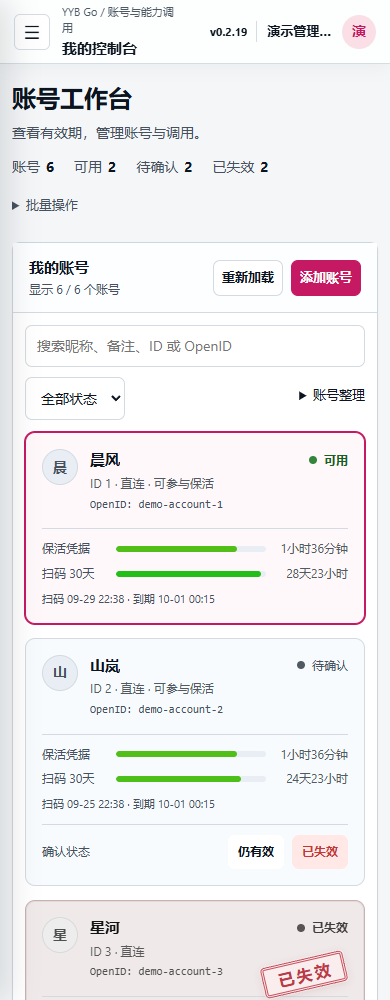
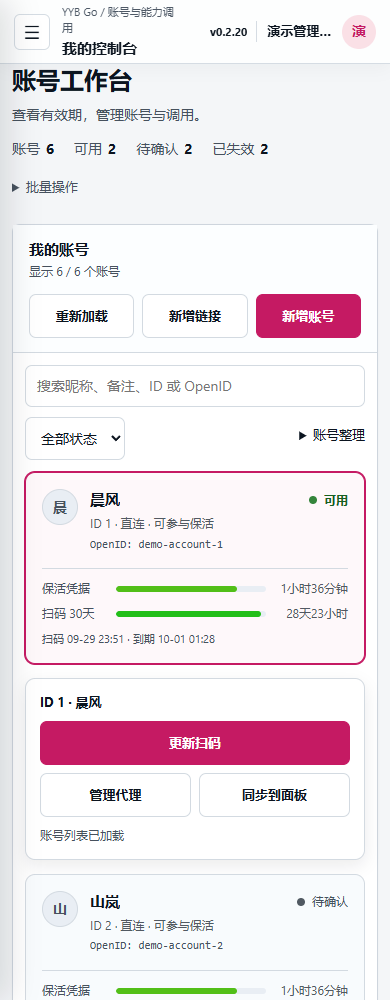
feat(console): add mobile actions below selected account in v0.2.20

diff --git a/resource/templates/index.html b/resource/templates/index.html
@@ -282,6 +282,7 @@
     .account-maintenance .inline-actions { flex-direction:column; }
     .account-filters .input { min-height:40px; }
     #accountWorkspace, #callWorkspace { scroll-margin-top:80px; }
+    .mobile-account-actions { display:none; }
     .sr-only { position:absolute; width:1px; height:1px; overflow:hidden; clip-path:inset(50%); white-space:nowrap; }
 
     .account-band,
@@ -848,8 +849,8 @@
 
     @media (max-width: 760px) {
       .overview { grid-template-columns:1fr; gap:4px; }
-      #accountWorkspace > .section-head { flex-direction:row; align-items:center; }
-      #accountWorkspace > .section-head .panel-actions { width:auto; }
+      #accountWorkspace > .section-head { flex-direction:column; align-items:stretch; }
+      #accountWorkspace > .section-head .panel-actions { width:100%; display:grid; grid-template-columns:repeat(3,minmax(0,1fr)); }
       #accountWorkspace > .section-head .btn { padding:8px; white-space:nowrap; }
       .account-filters { padding:12px 12px 0; }
       .account-search { flex-basis:100%; }
@@ -910,6 +911,16 @@
         top: 58px;
         font-size: 16px;
       }
+    }
+
+    @media (max-width: 860px) {
+      .account-strip { grid-template-columns:minmax(0,1fr); }
+      .mobile-account-actions:not([hidden]) { display:grid; grid-column:1 / -1; gap:10px; padding:14px; border:1px solid var(--line); border-radius:10px; background:var(--bg); box-shadow:0 6px 16px oklch(0.18 0.025 252 / .08); scroll-margin:80px 0 20px; }
+      .mobile-account-actions strong { font-size:13px; overflow-wrap:anywhere; }
+      .mobile-account-buttons { display:grid; grid-template-columns:repeat(2,minmax(0,1fr)); gap:8px; }
+      .mobile-account-buttons > .btn:first-child { grid-column:1 / -1; }
+      .platform-main .mobile-account-buttons .btn, #accountWorkspace > .section-head .btn { min-height:44px; }
+      .mobile-account-actions p { margin:0; font-size:12px; color:var(--muted); overflow-wrap:anywhere; }
     }
 
     @media (prefers-reduced-motion: reduce) {
@@ -990,7 +1001,8 @@
           </div>
           <div class="panel-actions">
             <button class="btn secondary" id="reloadAccountsBtn" type="button">重新加载</button>
-            <a class="btn primary" href="/scan">添加账号</a>
+            <button class="btn secondary" id="addAccountLinkBtn" type="button" title="生成只能录入新 YYB 账号的一次性扫码链接">新增链接</button>
+            <a class="btn primary" href="/scan">新增账号</a>
           </div>
         </div>
         <div class="account-filters">
@@ -1000,6 +1012,15 @@
         </div>
         <div class="account-strip" id="accountStrip">
           <div class="empty-state">账号加载中</div>
+        </div>
+        <div class="mobile-account-actions" id="mobileAccountActions" hidden role="region" aria-labelledby="mobileAccountName">
+          <strong id="mobileAccountName">当前账号</strong>
+          <div class="mobile-account-buttons">
+            <button class="btn primary" id="mobileUpdateAccountBtn" type="button">更新扫码</button>
+            <a class="btn secondary" id="mobileProxySettingsLink" href="/proxies">管理代理</a>
+            <button class="btn secondary" id="mobileSyncAccountBtn" type="button">同步到面板</button>
+          </div>
+          <p id="mobileAccountFeedback" role="status" hidden></p>
         </div>
       </section>
 
@@ -1021,7 +1042,6 @@
               <button class="btn secondary" id="saveRemarkBtn" type="button">保存备注</button>
               <button class="btn secondary" id="syncQingLongBtn" type="button">同步到面板</button>
               <button class="btn secondary" id="updateAccountLinkBtn" type="button" title="生成只能更新当前账号的一次性扫码链接">生成更新链接</button>
-              <button class="btn secondary" id="addAccountLinkBtn" type="button" title="生成只能录入新 YYB 账号的一次性扫码链接">生成新增链接</button>
               <button class="btn danger" id="deleteAccountBtn" type="button">删除账号</button>
             </div>
             <div class="proxy-summary">
@@ -1203,10 +1223,12 @@
       proxyConfigs: new Map(),
       selectedOpenID: "",
       lastResult: "",
-      expiredIntroPlayed: false
+      expiredIntroPlayed: false,
+      syncingAccount: false
     };
 
     const $ = id => document.getElementById(id);
+    const mobileAccountLayout = matchMedia("(max-width: 860px)");
 
     $("logoutBtn").addEventListener("click", async () => {
       await fetch("/logout", { method: "POST" });
@@ -1393,6 +1415,8 @@
 
     function setActivity(message) {
       $("activityLine").textContent = message;
+      $("mobileAccountFeedback").textContent = message;
+      $("mobileAccountFeedback").hidden = false;
     }
 
     function setResult(value, meta, isError) {
@@ -1415,7 +1439,10 @@
       $("accountRemarkInput").value = selected?.remark || "";
       $("accountRemarkInput").disabled = !selected;
       $("saveRemarkBtn").disabled = !selected;
-      $("syncQingLongBtn").disabled = !selected;
+      $("syncQingLongBtn").disabled = !selected || state.syncingAccount;
+      $("mobileSyncAccountBtn").disabled = !selected || state.syncingAccount;
+      $("updateAccountLinkBtn").disabled = !selected;
+      $("addAccountLinkBtn").disabled = !selected;
       $("syncAllQingLongBtn").disabled = state.accounts.length === 0;
       $("deleteAccountBtn").disabled = !selected;
       $("proxySettingsLink").href = selected ? `/proxies?ref=${encodeURIComponent(selected.id)}` : "/proxies";
@@ -1424,6 +1451,24 @@
         card.classList.toggle("selected", selected);
         card.querySelector(".account-select").setAttribute("aria-pressed", String(selected));
       });
+      placeMobileAccountActions();
+    }
+
+    function placeMobileAccountActions() {
+      const dock = $("mobileAccountActions");
+      const account = getSelectedAccount();
+      const card = document.querySelector(".account-card.selected");
+      dock.hidden = !mobileAccountLayout.matches || !account || !card;
+      if (dock.hidden) return;
+      $("mobileAccountName").textContent = `ID ${account.id} · ${accountName(account)}`;
+      $("mobileProxySettingsLink").href = `/proxies?ref=${encodeURIComponent(account.id)}`;
+      if (card.nextElementSibling !== dock) card.after(dock);
+    }
+
+    function parkMobileAccountActions() {
+      const dock = $("mobileAccountActions");
+      dock.hidden = true;
+      $("accountWorkspace").appendChild(dock);
     }
 
     function renderStats() {
@@ -1437,6 +1482,7 @@
 
     function renderAccounts() {
       const strip = $("accountStrip");
+      parkMobileAccountActions();
       const query = $("accountSearch").value.trim().toLocaleLowerCase();
       const filter = $("accountStatusFilter").value;
       const visible = state.accounts.filter(account => {
@@ -1445,7 +1491,7 @@
       });
       $("accountFilterCount").textContent = `显示 ${visible.length} / ${state.accounts.length} 个账号`;
       if (!state.accounts.length) {
-        strip.innerHTML = `<div class="empty-state">暂无账号，点击“添加账号”开始扫码。</div>`;
+        strip.innerHTML = `<div class="empty-state">暂无账号，点击“新增账号”开始扫码。</div>`;
         state.selectedOpenID = "";
         renderStats();
         return;
@@ -1498,6 +1544,10 @@
           syncSelectedAccount();
           loadAccountProxySummary();
           setActivity(`已选择账号：${name}`);
+          requestAnimationFrame(() => {
+            const dock = $("mobileAccountActions");
+            if (!dock.hidden) dock.scrollIntoView({ block:"nearest", behavior:matchMedia("(prefers-reduced-motion: reduce)").matches ? "instant" : "smooth" });
+          });
         });
         button.querySelectorAll("[data-confirm-status]").forEach(action => action.addEventListener("click", async event => {
           event.stopPropagation();
@@ -1593,6 +1643,7 @@
     }
 
     async function loadAccounts() {
+      parkMobileAccountActions();
       $("accountStrip").innerHTML = `<div class="empty-state">账号加载中</div>`;
       try {
         state.accounts = await api("GET", "/accounts");
@@ -1609,6 +1660,7 @@
         await loadAccountProxySummary();
         setActivity("账号列表已加载");
       } catch (error) {
+        parkMobileAccountActions();
         $("accountStrip").innerHTML = `<div class="empty-state">账号加载失败：${escapeHTML(error.data?.detail || error.message)}</div>`;
         setActivity("账号列表加载失败");
       }
@@ -1747,9 +1799,12 @@
 
     async function syncQingLong() {
       const account = getSelectedAccount();
-      if (!account) return;
+      if (!account || state.syncingAccount) return;
       const button = $("syncQingLongBtn");
+      state.syncingAccount = true;
       button.disabled = true;
+      $("mobileSyncAccountBtn").disabled = true;
+      setActivity(`正在同步账号 ${account.id} 到面板…`);
       try {
         const saved = await api("PUT", "/accounts/remark", { ref: String(account.id), remark: $("accountRemarkInput").value });
         const index = state.accounts.findIndex(item => item.id === account.id);
@@ -1763,17 +1818,21 @@
         setActivity(`同步面板失败：${error.message}`);
         if (error.message.includes("配置")) $("qingLongSettings").open = true;
       } finally {
-        button.disabled = false;
+        state.syncingAccount = false;
+        button.disabled = !getSelectedAccount();
+        $("mobileSyncAccountBtn").disabled = !getSelectedAccount();
       }
     }
 
     let pendingAccountLinkKind = "";
+    let pendingAccountLinkAccount = null;
 
     function openAccountLinkDialog(kind) {
       const account = getSelectedAccount();
       if (!account) return;
       const defaultMinutes = kind === "update" ? 10 : 30;
       pendingAccountLinkKind = kind;
+      pendingAccountLinkAccount = account;
       $("accountLinkDialogTitle").textContent = kind === "update" ? "生成更新链接" : "生成新增链接";
       $("accountLinkDialogDescription").textContent = kind === "update"
         ? `仅限 ${account.remark || account.nickname || `账号 ${account.id}`} 扫码更新，复制时自动加更新提示`
@@ -1793,11 +1852,12 @@
       if (dialog.open && typeof dialog.close === "function") dialog.close();
       else dialog.removeAttribute("open");
       pendingAccountLinkKind = "";
+      pendingAccountLinkAccount = null;
     }
 
     async function createAccountLink() {
       const kind = pendingAccountLinkKind;
-      const account = getSelectedAccount();
+      const account = pendingAccountLinkAccount;
       if (!kind || !account) return;
       const minutes = Number($("accountLinkTTL").value);
       if (!Number.isInteger(minutes) || minutes < 1 || minutes > 10080) {
@@ -1854,7 +1914,7 @@
         ? `已拦截：该账号已有 ${items.length} 条未消费链接。使用现有链接，或作废后再生成。`
         : `该账号已有 ${items.length} 条未消费链接。`;
       $("accountLinkExistingList").innerHTML = items.map(item => `<div class="link-dialog-existing-row"><span>链接 ${item.id} · 有效期至 ${new Date(item.expires_at * 1000).toLocaleString()}</span><span class="inline-actions"><button class="btn secondary" type="button" data-existing-copy="${item.id}">复制</button><a class="btn secondary" href="${item.url || '#'}" target="_blank" rel="noopener">打开</a><button class="btn secondary" type="button" data-existing-revoke="${item.id}">作废</button></span></div>`).join("");
-      const account = getSelectedAccount();
+      const account = pendingAccountLinkAccount;
       $("accountLinkExistingList").querySelectorAll("[data-existing-copy]").forEach(button => button.onclick = async () => { const item = items.find(entry => String(entry.id) === button.dataset.existingCopy); if (!item?.url) return; try { await copyText(accountLinkShareText(item.kind || pendingAccountLinkKind, account, item.url)); button.textContent = "已复制"; setTimeout(() => { button.textContent = "复制"; }, 1600); } catch { setActivity("分享内容已选中，请按 Ctrl+C"); } });
       $("accountLinkExistingList").querySelectorAll("[data-existing-revoke]").forEach(button => button.onclick = async () => {
         try {
@@ -2058,6 +2118,9 @@
     $("syncAllQingLongBtn").addEventListener("click", syncAllQingLong);
     $("saveRemarkBtn").addEventListener("click", saveRemark);
     $("syncQingLongBtn").addEventListener("click", syncQingLong);
+    $("mobileSyncAccountBtn").addEventListener("click", syncQingLong);
+    $("mobileUpdateAccountBtn").addEventListener("click", () => openAccountLinkDialog("update"));
+    mobileAccountLayout.addEventListener("change", placeMobileAccountActions);
     $("updateAccountLinkBtn").addEventListener("click", () => openAccountLinkDialog("update"));
     $("addAccountLinkBtn").addEventListener("click", () => openAccountLinkDialog("add"));
     $("accountLinkConfigPane").addEventListener("submit", event => { event.preventDefault(); createAccountLink(); });

diff --git a/internal/version/version.go b/internal/version/version.go
@@ -10,7 +10,7 @@ import (
 // These values are replaced by -ldflags in release builds. Keeping useful
 // defaults makes source builds and locally copied binaries identifiable too.
 var (
-	Version   = "0.2.19"
+	Version   = "0.2.20"
 	Commit    = "unknown"
 	BuildDate = "unknown"
 )

diff --git a/CHANGELOG.md b/CHANGELOG.md
@@ -2,6 +2,14 @@
 
 本项目按实际提交时间记录主要功能变化，便于部署后确认版本内容。
 
+## v0.2.20 - 2026-09-30
+
+- 手机和平板窄屏选中账号后，在该卡片下方展开操作条，可直接更新扫码、管理代理、同步到面板；操作结果就近显示，不必滚到列表底部。
+- 将新增账号和新增授权链接入口集中到账号列表顶部，桌面原有账号操作继续保留。
+- 操作条跟随选中账号移动，筛选隐藏该账号或列表为空时自动收起；刷新列表、横竖屏切换后保持正确关联。
+- 更新链接弹窗固定绑定打开时的账号，同步期间禁用重复提交，避免移动端操作串号或重复请求。
+- 补充不同屏宽、账号切换、更新/新增链接、同步与空列表的浏览器回归检查，更新虚构数据的界面预览。
+
 ## v0.2.19 - 2026-09-30
 
 - 重整账号工作台：压缩顶部说明、折叠批量操作和账号整理，增加昵称/备注/ID/OpenID 搜索及状态筛选，扩大卡片有效期显示，统一页面按钮和表单样式。

diff --git a/README.md b/README.md
@@ -14,7 +14,7 @@
 
 ![账号工作台：搜索、状态筛选与有效期（全部为虚构演示数据）](docs/images/console-demo-1440.png)
 
-v0.2.19 工作台支持昵称、备注、ID、OpenID 搜索和状态筛选。卡片区随账号数量自然展开，已失效账号停止展示有效期倒计时。页面预览使用虚构账号。
+工作台支持昵称、备注、ID、OpenID 搜索和状态筛选。v0.2.20 起，手机选中账号即可在卡片下方更新扫码、管理代理和同步到面板；新增账号和新增链接位于列表顶部。卡片区随账号数量自然展开，已失效账号停止展示有效期倒计时。页面预览使用虚构账号。
 
 <p align="center">
   <img src="docs/images/scan-sync-mobile.png" alt="扫码成功后一键添加到青龙" width="32%">
